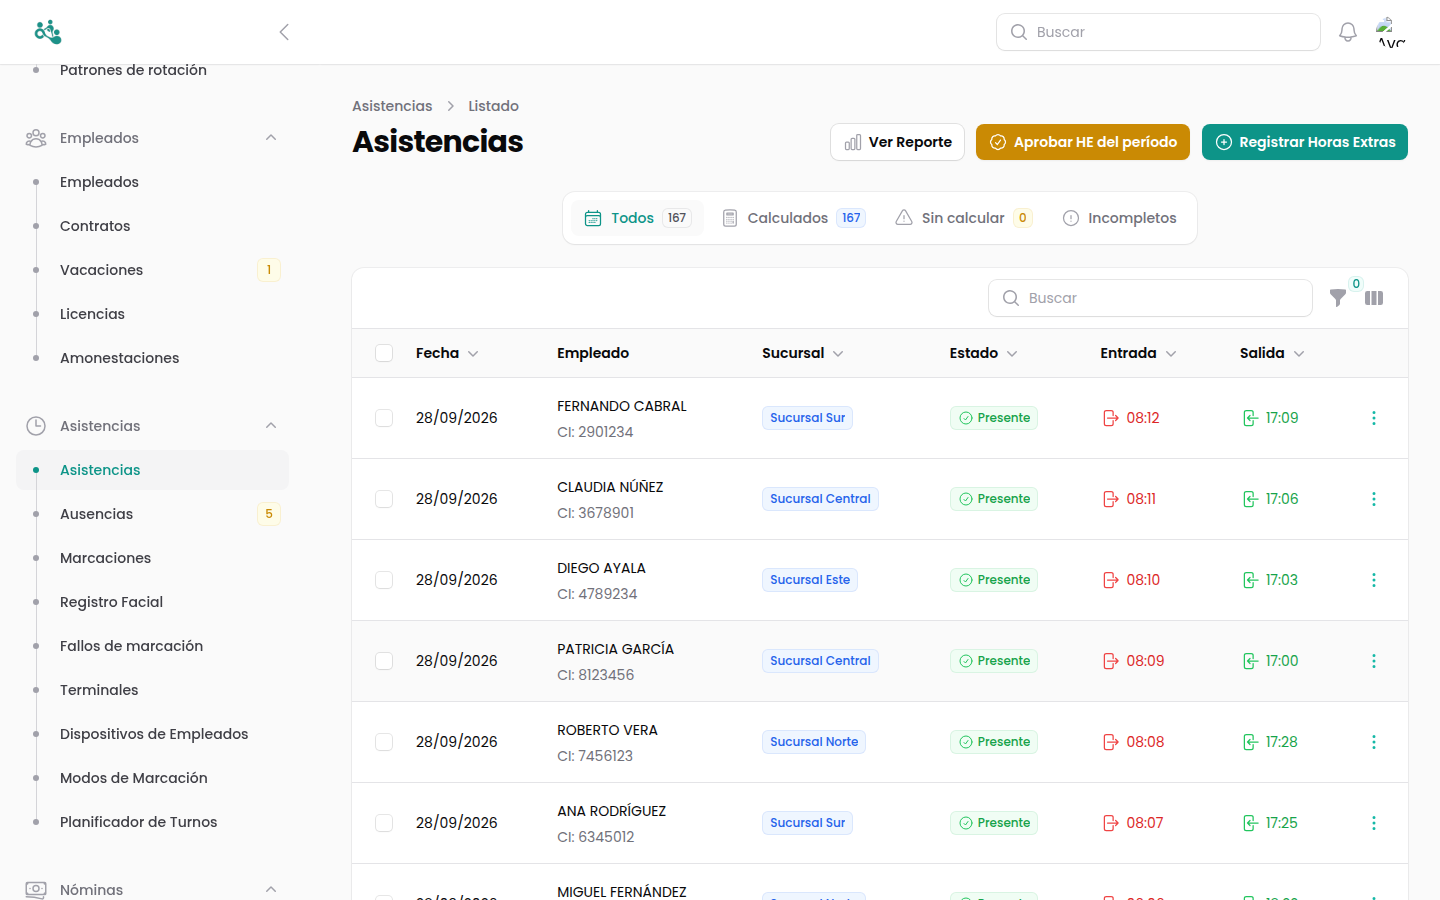
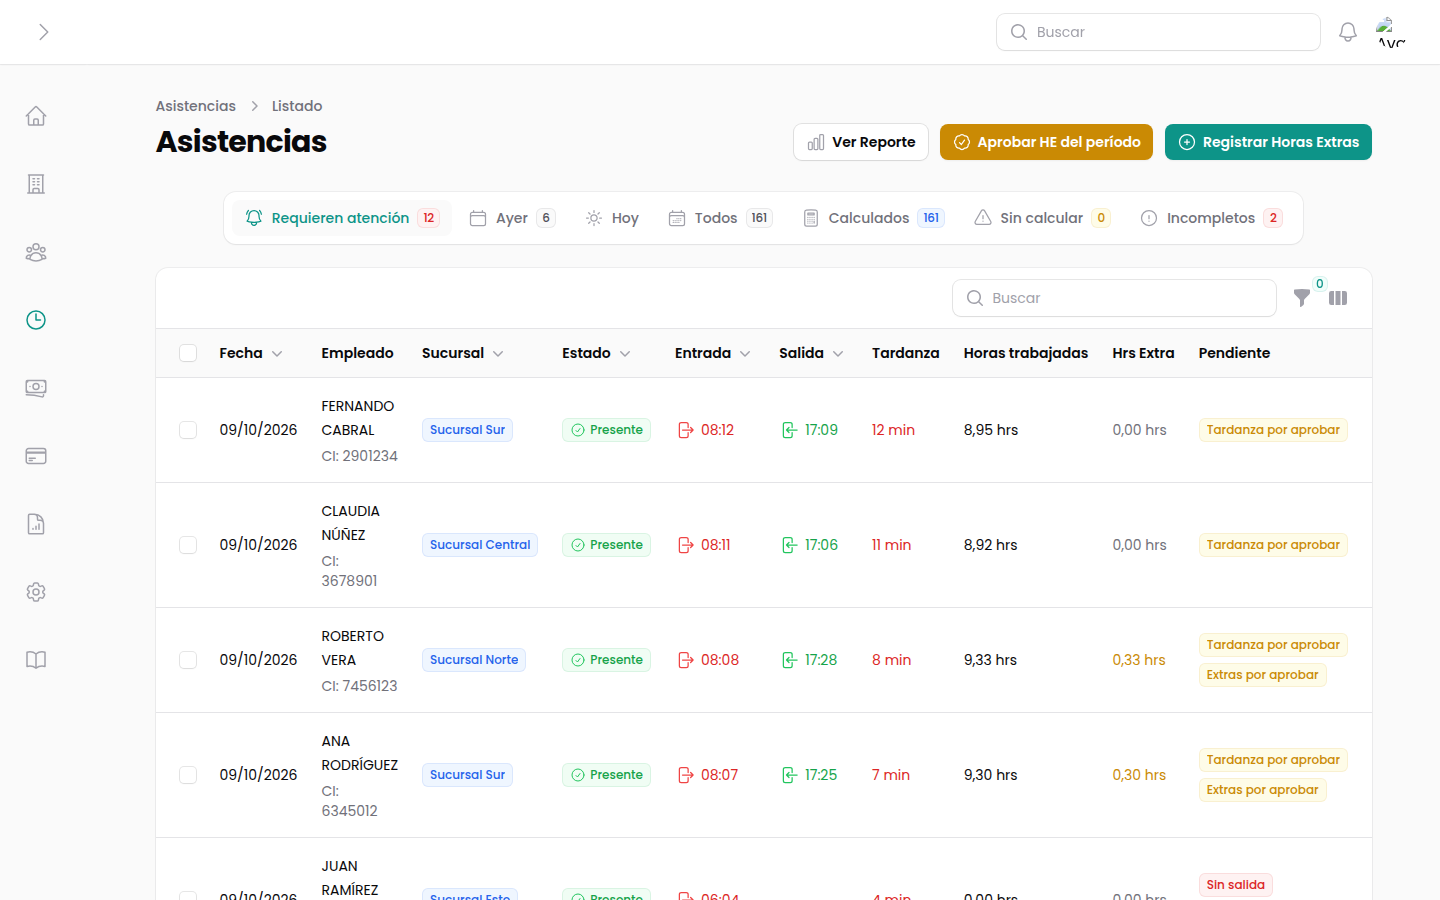
Guía: capturas del listado de Asistencias y de la ventana Corregir marcaciones
Claude-Session: https://claude.ai/code/session_016uALGGZd5ufPtjAioqAnnP

diff --git a/resources/docs/07-asistencias.md b/resources/docs/07-asistencias.md
@@ -312,6 +312,9 @@ Las columnas de tardanza, horas trabajadas, horas extra y pendiente se muestran 
 Cada fila tiene un botón y dos menús:
 
 - **Corregir marcaciones** (lápiz): abre una ventana con todas las marcaciones del día, sin salir del listado. Se puede cambiar el tipo o la fecha y hora de una marcación, agregar una con **Agregar marcación** o quitarla con el ícono de papelera. Al **Guardar correcciones** la jornada se recalcula. Una salida de madrugada se carga con la fecha del día siguiente. No se admiten horas futuras ni una secuencia imposible (por ejemplo, dos entradas seguidas); en ese caso no se guarda nada y se explica el motivo. Las marcaciones agregadas o modificadas quedan con canal **Manual**. Requiere permiso para editar marcaciones.
+
+![Ventana Corregir marcaciones con las marcaciones del día](/docs-images/07-asistencias-corregir.png)
+
 - **Aprobar** (ícono de check): reúne las decisiones sobre el día.
 - **Más**: ajustar, recalcular y exportar.
 
